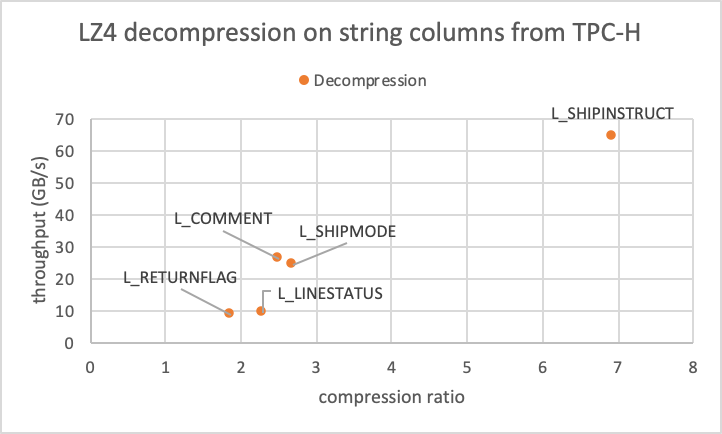
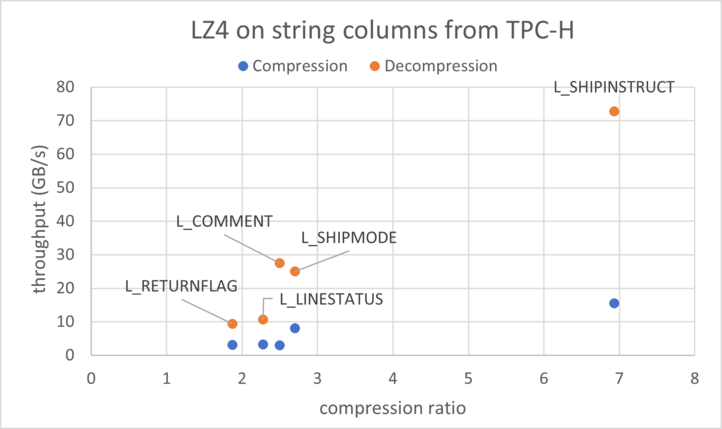
Update changelog and lz4 perf table (closes #144)

Changed region(s): [[0.0305, 0.1818, 0.9751, 0.9697], [0.0914, 0.0303, 0.8837, 0.2121], [0.0609, 0.1818, 0.1219, 0.2121]]

diff --git a/README.md b/README.md
@@ -13,9 +13,9 @@ The library is designed to be modular with ability to add new implementations wi
 
 Below you can find instructions on how to build the library, reproduce our benchmarking results, a guide on how to integrate into your application and a detailed description of the compression methods. Enjoy!
 
-# Version 1.0 Release
+# Version 1.1 Release
 
-The initial public release of nvcomp. Full details in
+The first release of nvcomp to add the batched LZ4 interface. Full details in
 [CHANGELOG.md](CHANGELOG.md).
 
 ## Known issues
@@ -23,9 +23,6 @@ The initial public release of nvcomp. Full details in
 * Cascaded compression requires a large amount of temporary workspace to
 operate. Current workaround is to compress/decompress large datasets in pieces,
 re-using temporary workspace for each piece.
-
-* While the LZ4 decompression kernels are well-optimized, the compression
-implementation has not been tuned for performance yet (currently work-in-progress).
 
 # Building the library
 NVComp uses CMake for building. Generally, it is best to do an out of source build:

diff --git a/CHANGELOG.md b/CHANGELOG.md
@@ -1,3 +1,9 @@
+# nvcomp 1.1.0 (2020-10-05)
+
+- Add batch C interface for LZ4, allowing compressing/decompressing multiple
+inputs at once.
+- Significantly improve performance of LZ4 compression.
+
 # nvcomp 1.0.2 (2020-08-12)
 
 - Fix metadata freeing for LZ4, to avoid possible mismatch of `new[]` and
